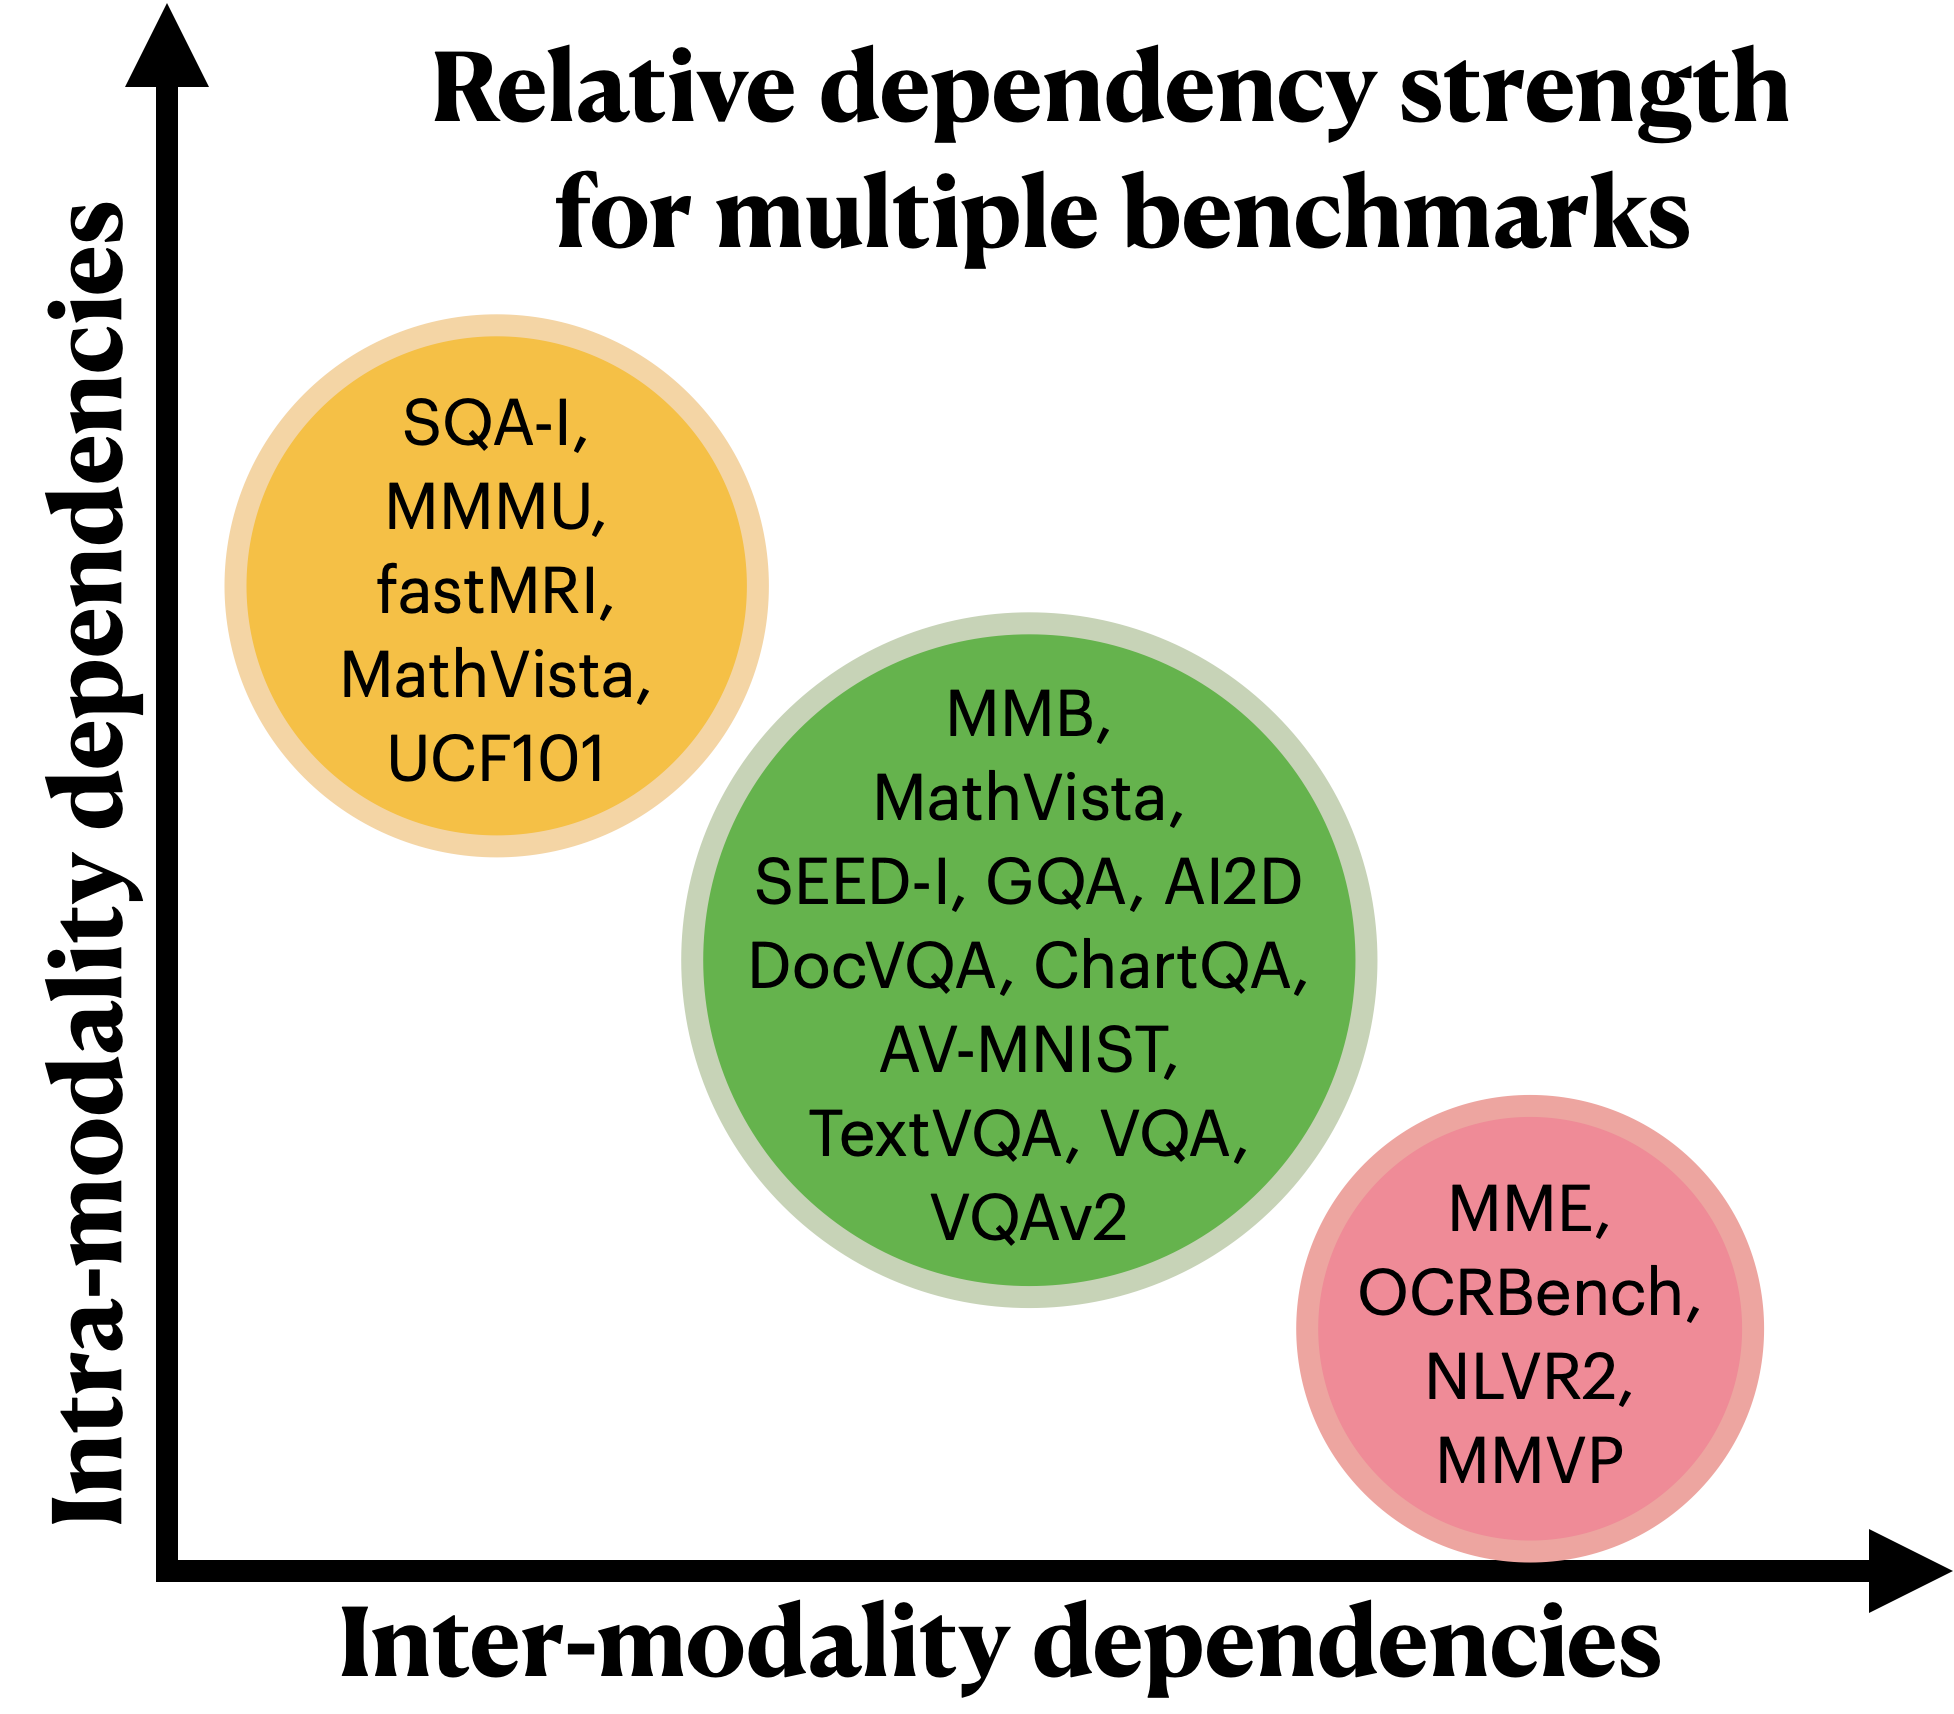
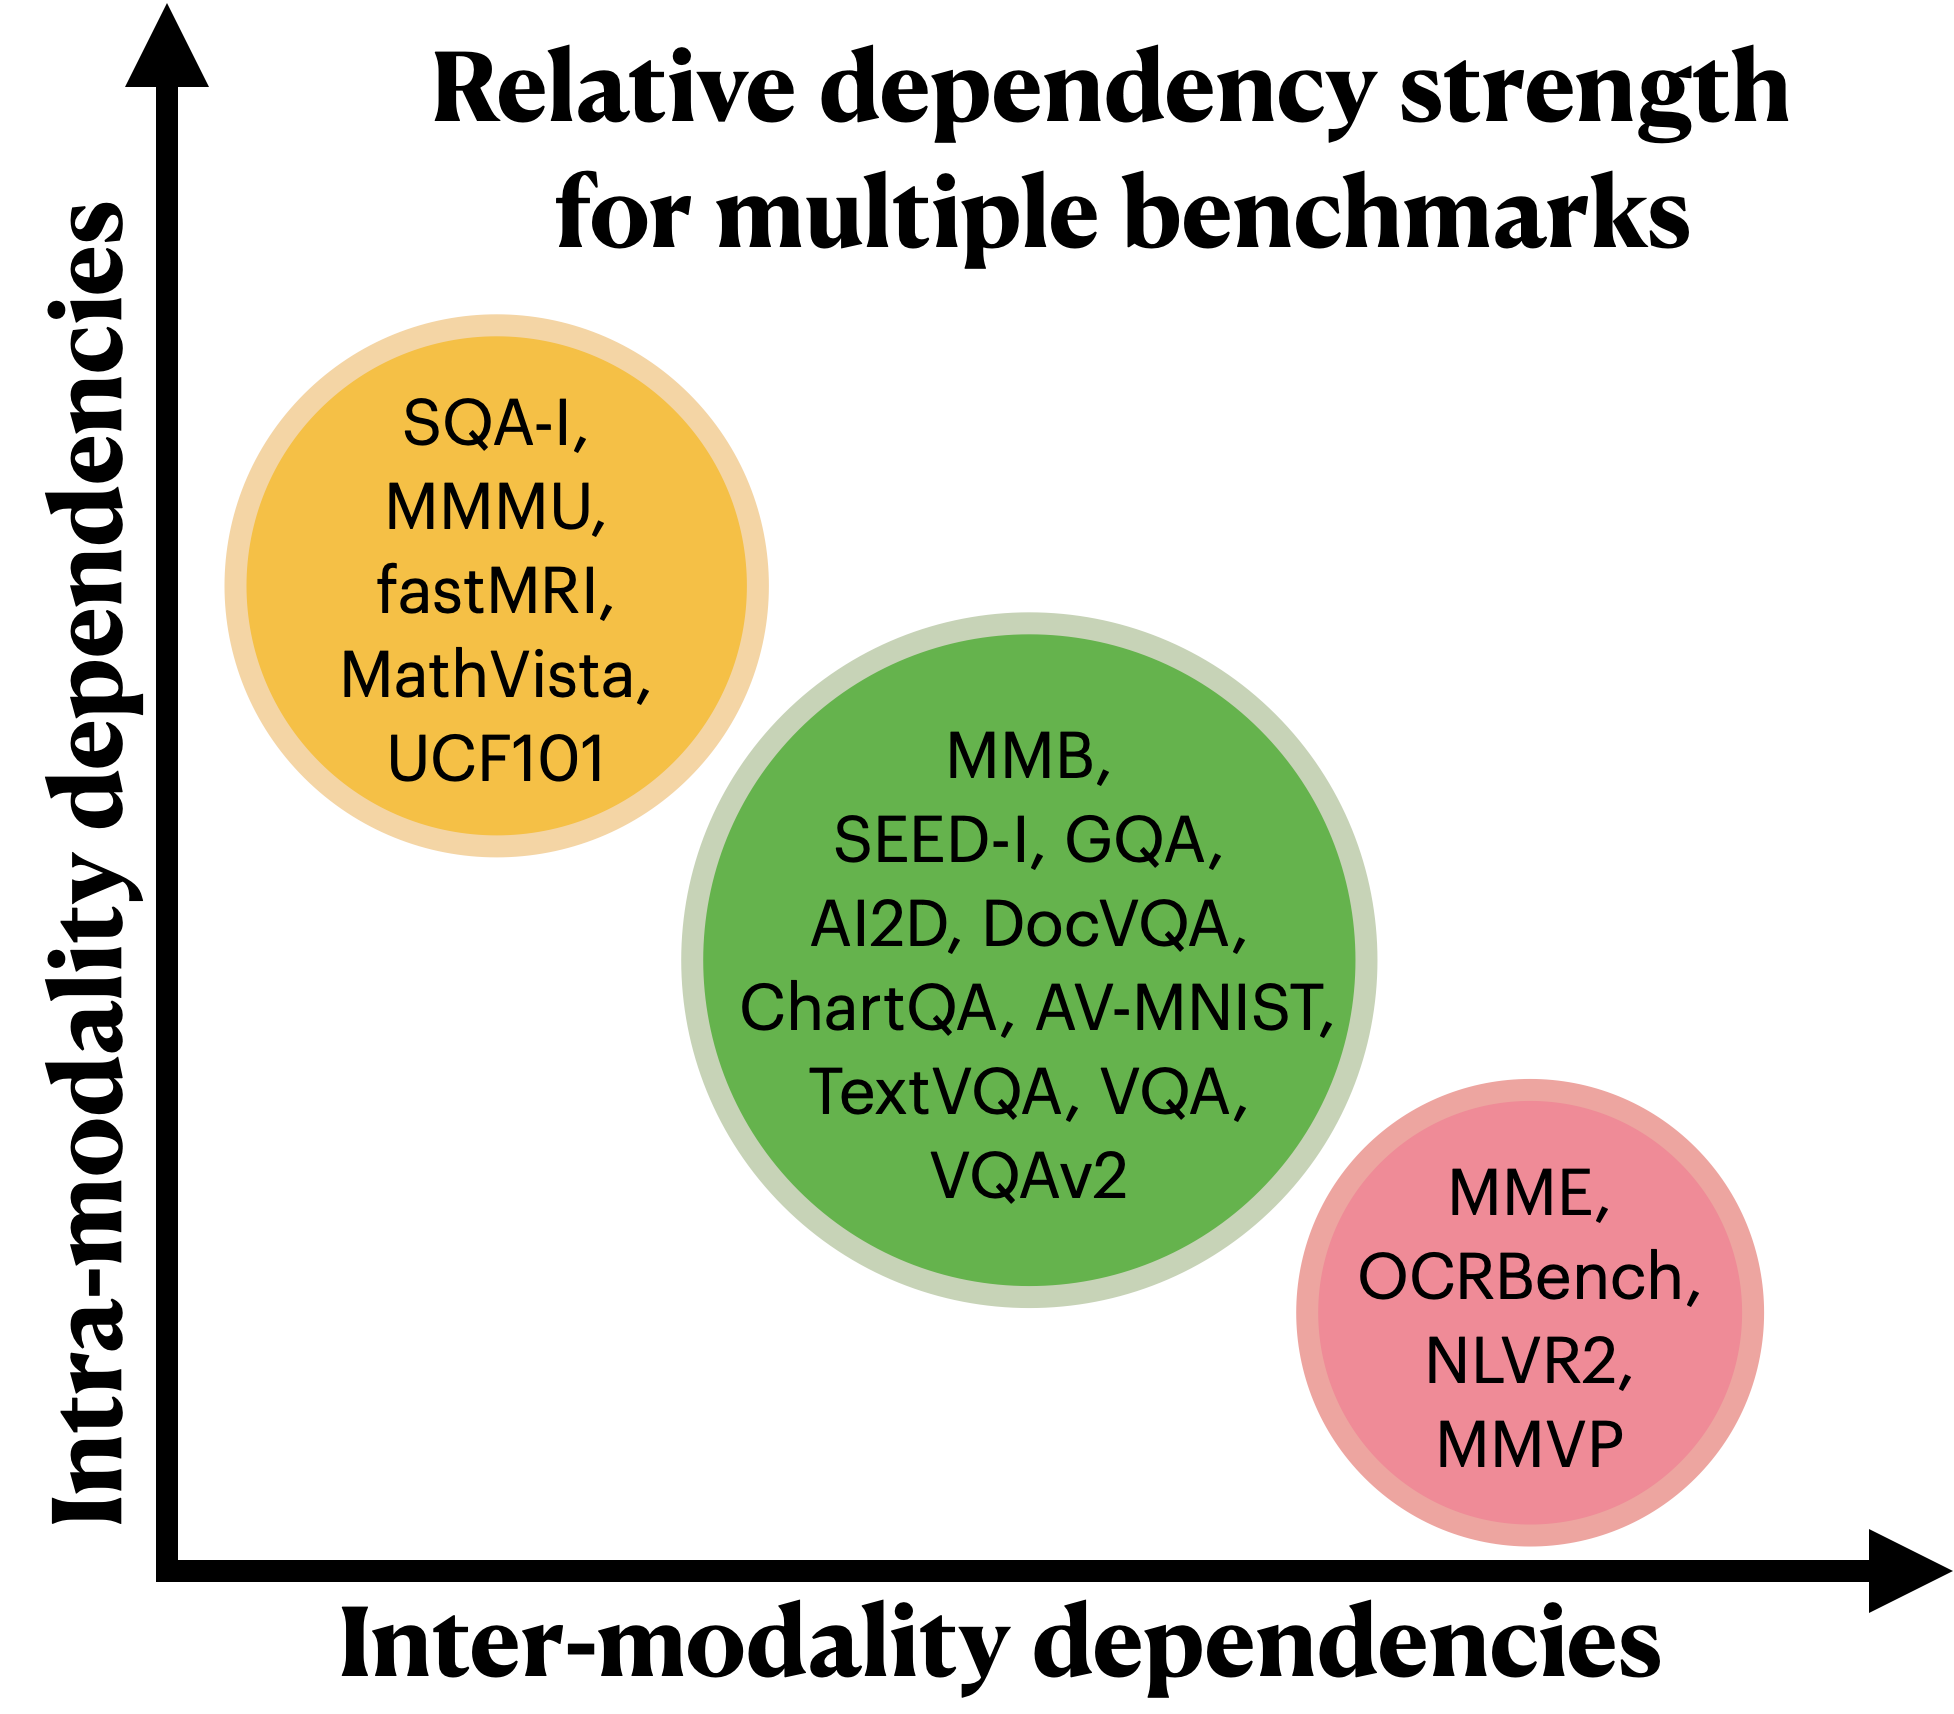
Camera ready

Changed region(s): [[0.3746, 0.402, 0.6868, 0.7421], [0.6556, 0.6184, 0.9053, 0.9277], [0.6556, 0.804, 0.6868, 0.8349]]

diff --git a/_posts/2025-04-28-multimodal-learning.md b/_posts/2025-04-28-multimodal-learning.md
@@ -17,7 +17,19 @@ hidden: false
 
 # Anonymize when submitting
 authors:
-  - name: Anonymous
+  - name: Divyam Madaan
+    url: "https://dmadaan.com/"
+    affiliations:
+      name: New York University
+  - name: Sumit Chopra
+    url: "https://www.spchopra.net/"
+    affiliations:
+      name: New York University, New York University Grossman School of Medicine
+  - name: Kyunghyun Cho
+    url: "https://kyunghyuncho.me/"
+    affiliations:
+      name: New York University, Genentech, CIFAR
+
 
 # must be the exact same name as your blogpost
 bibliography: 2025-04-28-multimodal-learning.bib  
@@ -320,9 +332,9 @@ For any dataset or benchmark, we recommend to start with the assumption of what 
 
 To answer that question, we recommend a thorough examination of the dependencies for each defined modality, both individually and jointly with other modalities for the target task.  These dependencies are categorized as ***intra-modality dependencies***, which represent interactions between individual modalities and the target label and ***inter-modality dependencies***, which captures interaction between modalities and label. 
 
-Several studies have evaluated benchmarks involving images and text as two modalities, and we illustrate how these dependencies differed across benchmarks based on prior studies<d-cite key="wang2020makes, du2023uni, tong2024cambrian, madaan2024jointly"></d-cite> in the Figure above. For datasets such as ***SQA-I, MMMU, fastMRI, MathVista, UCF101, intra-modality dependencies are more important***, as removing one modality all together does not affect model performance. Conversely, for datasets like ***MMB, MathVista, SEED-I and so on, both inter- and intra-modality dependencies are important***, as both uni-modal and inter-modality models obtain more than random performance. For benchmarks such as **MME, OCRBench, NLVR2 and others, inter-dependencies are more important***;* removing one modality results in random performance; underscoring the importance of modality interactions. 
+Several studies have evaluated benchmarks involving images and text as two modalities, and we illustrate how these dependencies differed across benchmarks based on prior studies<d-cite key="wang2020makes, du2023uni, tong2024cambrian, madaan2024jointly"></d-cite> in the Figure above. For datasets such as ***SQA-I, MMMU, fastMRI, MathVista, UCF101, intra-modality dependencies are more important***, as removing one modality all together does not affect model performance. Conversely, for datasets like ***MMB, SEED-I, GQA, ChartQA and so on, both inter- and intra-modality dependencies are important***, as both uni-modal and inter-modality models obtain more than random performance. For benchmarks such as **MME, OCRBench, NLVR2 and others, inter-dependencies are more important***;* removing one modality results in random performance; underscoring the importance of modality interactions. 
 
-For all these benchmarks, specific architectural choices—such as the type of fusion method or the backbone architecture for vision and language models—exhibit minimal impact on performance, as noted in prior studies<d-cite key="wang2020makes, du2023uni, tong2024cambrian, madaan2024jointly"></d-cite>. 
+For all these benchmarks, specific architectural choices—such as the type of fusion method or the backbone architecture for vision and language models—exhibit minimal impact on performance, as noted in prior studies<d-cite key="wang2020makes, du2023uni, tong2024cambrian, madaan2024jointly"></d-cite>. Thus
 
 <aside class="box-important l-body" markdown="1">
 The emphasis should be on analyzing how each modality contributes to task performance, both independently and jointly with other modalities. 
@@ -349,19 +361,39 @@ With a clear understanding of each modality’s contribution, we can prioritize 
 
 {% highlight python linenos %}
 def forward(x_1, x_2):
-  ## Intra-modality predictors for two modalities
-  outputs_modality_1 = self.intra_model_1(x_1)
-  outputs_modality_2 = self.intra_model_2(x_2)
-  # Inter-modality predictor (Early/Intermediate/Late)
-  outputs_inter = self.inter_model(torch.cat([x_1, x_2], dim=-1))
-  ## Product of experts (additive ensemble in the log-probability space)
-  output_num = torch.log_softmax(outputs_modality_1, dim=-1) +  \
-               torch.log_softmax(outputs_modality_2, dim=-1) + \
-               torch.log_softmax(outputs_inter, dim=-1)
-  ## Normalizing the output
-  output_den = torch.logsumexp(output_num, dim=-1)
-  outputs = output_num - output_den.unsqueeze(1)
-  return outputs
+  """
+  Forward pass for multi-modal classification using Product of Experts (PoE).
+  Combines predictions from intra-modality models and inter-modality model.
+
+  Args:
+    x_1 (Tensor): Input from modality 1 
+    x_2 (Tensor): Input from modality 2
+
+  Returns:
+    Tensor: Log-probabilities over output classes, shape [batch_size, num_classes]
+  """
+  # Intra-modality predictors (separate models for each modality)
+  intra_output_1 = self.intra_model_1(x_1)
+  intra_output_2 = self.intra_model_2(x_2)
+
+  # Inter-modality predictor (fusion model over both modalities)
+  inter_input = torch.cat([x_1, x_2], dim=-1)
+  inter_output = self.inter_model(inter_input)
+
+  # Convert outputs to log-probabilities
+  log_probs_intra_1 = torch.log_softmax(intra_output_1, dim=-1)
+  log_probs_intra_2 = torch.log_softmax(intra_output_2, dim=-1)
+  log_probs_inter = torch.log_softmax(inter_output, dim=-1)
+
+  # Product of Experts: add log-probabilities from each expert
+  combined_log_probs = log_probs_intra_1 + log_probs_intra_2 + log_probs_inter
+
+  # Normalize
+  log_normalizer = torch.logsumexp(combined_log_probs, dim=-1, keepdim=True)
+  log_probs = combined_log_probs - log_normalizer
+
+  return log_probs
+
 {% endhighlight %}
 
 The code above combines the output log probabilities in an additive way and has been shown to work effectively across various healthcare, language, and vision benchmarks, even when the relative strength of these dependencies is not known<d-cite key="madaan2024jointly"></d-cite>. Such an approach does not fundamentally alter the multi-modal learning problem; instead, it offers a structured way to balance individual and joint modality contributions. By explicitly modeling the importance of individual modalities, this approach mitigates uni-modal biases.
@@ -374,3 +406,10 @@ This comes with the trade-off of increased parameter requirements, which could i
 
 ## Takeaway
 Current approaches to multimodal learning tend to overemphasize the interaction between modalities for downstream tasks, resulting in benchmarks and architectures narrowly focused on modeling these interactions. In real-world scenarios, however, the strength of these interactions are often unkown. To build more effective multimodal models, we need to shift our focus toward holistically understandinging the independent contributions of each modality as well as their joint impact on the target task.
+
+## Acknowledgement
+This work was supported by the Institute of Information & Communications Technology Planning
+& Evaluation (IITP) with a grant funded by the Ministry of Science and ICT (MSIT) of the Republic
+of Korea in connection with the Global AI Frontier Lab International Collaborative Research,
+Samsung Advanced Institute of Technology (under the project Next Generation Deep Learning: From Pattern
+Recognition to AI), National Science Foundation (NSF) award No. 1922658, Center for Advanced Imaging Innovation and Research (CAI2R), National Center for Biomedical Imaging and Bioengineering operated by NYU Langone Health, and National Institute of Biomedical Imaging and Bioengineering through award number P41EB017183.
